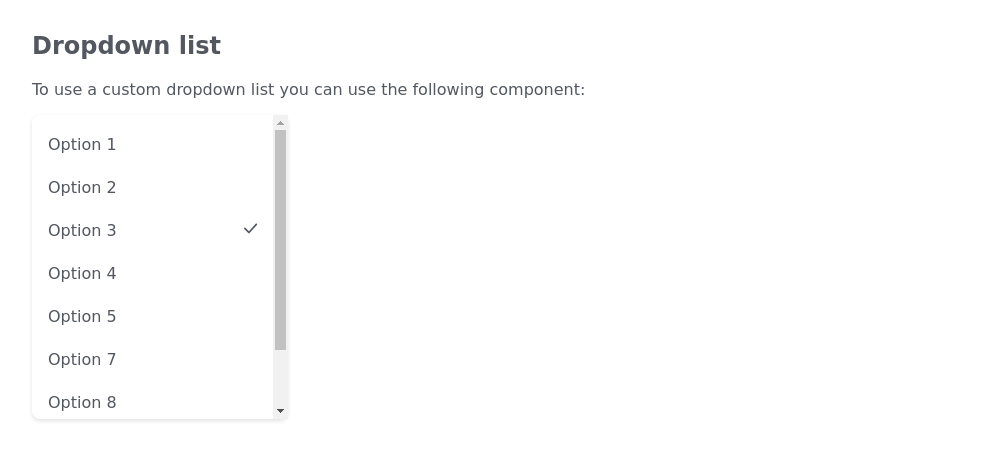
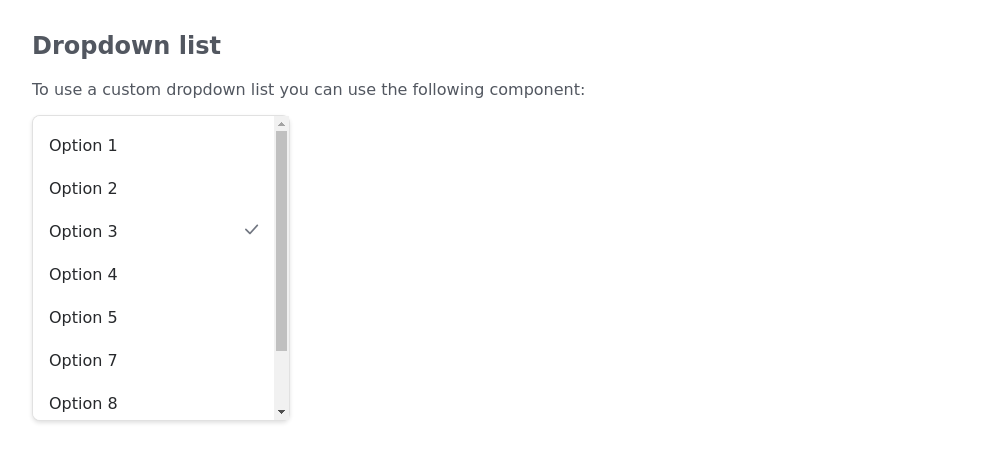
feat(dropdown-menu): align to SDS and fix dropdown styles and generat… (#402)
* feat(dropdown-menu): align to SDS and fix dropdown styles and generate alert-triangle with css only

* feat(error): Use the icon from .tk-validation__errors

* feat(dropdown-menu): align expandable icon to SDS

diff --git a/packages/styles/stories/fields.stories.js b/packages/styles/stories/fields.stories.js
@@ -23,7 +23,7 @@ export const TextField = () => {
       placeholder="Type something..."
     />
     <ul class="tk-validation__errors">
-      <li><i class="tk-icon-alert-triangle"></i>This field is required.</li>
+      <li>This field is required.</li>
     </ul>
   </span>
   <div class="tk-mt-2"></div>
@@ -34,7 +34,7 @@ export const TextField = () => {
         placeholder="Type something..."
       />
       <ul class="tk-validation__errors">
-        <li><i class="tk-icon-alert-triangle"></i>This field is required.</li>
+        <li>This field is required.</li>
       </ul>
 
     </span>
@@ -116,7 +116,7 @@ export const TextField = () => {
       </div>
     </div>
     <ul class="tk-validation__errors">
-    <li><i class="tk-icon-alert-triangle"></i>This field is required.</li>
+    <li>This field is required.</li>
   </ul>
 
   </span>
@@ -134,7 +134,7 @@ export const TextField = () => {
       </div>
     </div>
     <ul class="tk-validation__errors">
-    <li><i class="tk-icon-alert-triangle"></i>This field is required.</li>
+    <li>This field is required.</li>
   </ul>
 
   </span>
@@ -282,7 +282,7 @@ export const TextField = () => {
       </div>
       </div>
       <ul class="tk-validation__errors">
-        <li><i class="tk-icon-alert-triangle"></i>This field is required.</li>
+        <li>This field is required.</li>
       </ul>
   </span>
   <div class="tk-mt-2"></div>
@@ -301,7 +301,7 @@ export const TextField = () => {
       </div>
       </div>
       <ul class="tk-validation__errors">
-        <li><i class="tk-icon-alert-triangle"></i>This field is required.</li>
+        <li>This field is required.</li>
       </ul>
   </span>
   <h3>Read Only</h3>
@@ -427,7 +427,7 @@ export const TextField = () => {
       </div>
       </div>
       <ul class="tk-validation__errors">
-        <li><i class="tk-icon-alert-triangle"></i>This field is required.</li>
+        <li>This field is required.</li>
       </ul>
   </span>
   <div class="tk-mt-2"></div>
@@ -451,7 +451,7 @@ export const TextField = () => {
       </div>
       </div>
       <ul class="tk-validation__errors">
-        <li><i class="tk-icon-alert-triangle"></i>This field is required.</li>
+        <li>This field is required.</li>
       </ul>
   </span>
 
@@ -558,7 +558,7 @@ export const TextField = () => {
         placeholder="Type something..."
       />
       <ul class="tk-validation__errors">
-        <li><i class="tk-icon-alert-triangle"></i>This field is required.</li>
+        <li>This field is required.</li>
       </ul>
     </span>
     <div class="tk-mt-2"></div>
@@ -661,9 +661,7 @@ export const Select = () => {
       <i></i>
     </div>
     <ul class="tk-validation__errors">
-      <li>
-        <i class="tk-icon-alert-triangle"></i>This field is required.
-      </li>
+      <li>This field is required.</li>
     </ul>
   </span>
 
@@ -682,9 +680,7 @@ export const Select = () => {
       </div>
     </div>
     <ul class="tk-validation__errors">
-      <li>
-        <i class="tk-icon-alert-triangle"></i>This field is required.
-      </li>
+      <li>This field is required.</li>
     </ul>
   </span>
 
@@ -750,9 +746,7 @@ export const Select = () => {
       <i></i>
     </div>
     <ul class="tk-validation__errors">
-      <li>
-        <i class="tk-icon-alert-triangle"></i>This field is required.
-      </li>
+      <li>This field is required.</li>
     </ul>
   </span>
 
@@ -771,9 +765,7 @@ export const Select = () => {
       </div>
     </div>
     <ul class="tk-validation__errors">
-      <li>
-        <i class="tk-icon-alert-triangle"></i>This field is required.
-      </li>
+      <li>This field is required.</li>
     </ul>
   </span>
 
@@ -839,9 +831,7 @@ export const Select = () => {
       <i></i>
     </div>
     <ul class="tk-validation__errors">
-      <li>
-        <i class="tk-icon-alert-triangle"></i>This field is required.
-      </li>
+      <li>This field is required.</li>
     </ul>
   </span>
 
@@ -860,9 +850,7 @@ export const Select = () => {
       </div>
     </div>
     <ul class="tk-validation__errors">
-      <li>
-        <i class="tk-icon-alert-triangle"></i>This field is required.
-      </li>
+      <li>This field is required.</li>
     </ul>
   </span>
 `;
@@ -927,9 +915,7 @@ export const TextArea = () => {
       </div>
       </div>
       <ul class="tk-validation__errors">
-        <li>
-          <i class="tk-icon-alert-triangle"></i>This field is required.
-        </li>
+        <li>This field is required.</li>
       </ul>
   </span>
   <div class="tk-mt-2"></div>
@@ -943,9 +929,7 @@ export const TextArea = () => {
       </div>
       </div>
       <ul class="tk-validation__errors">
-        <li>
-          <i class="tk-icon-alert-triangle"></i>This field is required.
-        </li>
+        <li>This field is required.</li>
       </ul>
   </span>
   

diff --git a/packages/styles/src/utils/mixins/_inputs.scss b/packages/styles/src/utils/mixins/_inputs.scss
@@ -61,19 +61,11 @@
     label {
       @include styleLabel;
     }
+    .tk-icon-info-round {
+      @include addFocusStyle;
+    }
     .tk-tooltip__wrapper {
       line-height: toRem(16);
-      color: getColor($--tk-hint-color, default);
-      :hover {
-        color: getColor($electricity, '40');
-      }
-      :active {
-        color: getColor($electricity, '50');
-      }
-
-      .tk-input-group__hint {
-        @include addFocusStyle;
-      }
     }
   }
 }
@@ -159,9 +151,24 @@
   }
 }
 
+@mixin styleSelectedIcon {
+  &::before {
+    position: absolute;
+    right: toRem(16);
+    font-style: normal;
+    font-family: 'tk-icons';
+    color: getColor(
+      $--tk-select-color,
+      defaultMenuIcon
+    );
+    font-size: toRem(14);
+    @include tk-icon-check;
+  }
+}
+
 @mixin boxContainer() {
   box-shadow: 0 toRem(24) toRem(48) rgba($scolor-box-shadow, 0.12),
     0 toRem(4) toRem(8) rgba($scolor-box-shadow, 0.24);
   border-radius: toRem(8);
-  background-color: $--tk-input-default-background-color;
+  background-color: getColor($--tk-select-color, defaultMenuBg);
 }

diff --git a/packages/styles/src/components/atoms/_dropdown-menu.scss b/packages/styles/src/components/atoms/_dropdown-menu.scss
@@ -1,17 +1,21 @@
-$list-font-size-icon: toRem(14);
+$list-font-size-icon: toRem(16);
 
 .tk-dropdown-menu {
   @include listStyle;
+
   z-index: $z-index-dropdown-menu;
   padding: toRem(8) 0;
   i {
-    color: $--tk-list-selected-color;
+    color: getColor($--tk-select-color, defaultMenuIcon);
     font-size: $list-font-size-icon;
     padding-right: toRem(8);
   }
 
   &__item {
-    padding: toRem(8) toRem(0) toRem(8) toRem(16);
+    font-size: toRem(14);
+    height: toRem(20);
+    line-height: toRem(20);
+    padding: toRem(6) toRem(0) toRem(6) toRem(16);
   }
 
   &--expandable::before {
@@ -20,14 +24,14 @@ $list-font-size-icon: toRem(14);
     font-style: normal;
     font-family: 'tk-icons';
     font-size: $list-font-size-icon;
-    color: $scolor-electricity;
+    color: getColor($--tk-select-color, defaultMenuIcon);
     @include tk-icon-right;
   }
 }
 
 .tk-dropdown-menu-divider {
   height: 0;
-  margin: toRem(5.6) 0;
+  margin: toRem(2) 0;
   overflow: hidden;
-  border-top: toRem(1) solid $--tk-list-divider-color;
+  border-top: toRem(1) solid $--tk-divider-color;
 }

diff --git a/packages/styles/src/utils/mixins/_list.scss b/packages/styles/src/utils/mixins/_list.scss
@@ -2,25 +2,28 @@ $list-box-shadow: rgba($scolor-graphite-plus-89, 0.122);
 
 @mixin listStyle {
   text-align: left;
+  border: toRem(1) solid $list-box-shadow;
   border-radius: toRem(8);
   box-shadow: 0 toRem(2) toRem(4) $list-box-shadow;
-  &--selected::before {
-    position: absolute;
-    right: toRem(16);
-    font-style: normal;
-    font-family: 'tk-icons';
-    font-size: toRem(14);
-    @include tk-icon-check;
+  background-color: getColor($--tk-select-color, defaultMenuBg);
+
+  &--selected {
+    @include styleSelectedIcon;
   }
 
   &__item {
     position: relative;
-    color: $--tk-main-text-color;
+    color: getColor($--tk-select-color, defaultMenuText);
     display: block;
     cursor: pointer;
     padding-left: toRem(16);
+
     &:hover {
-      background-color: $--tk-list-hover-color;
+      color: getColor($--tk-select-color, hoverMenuText);
+      background-color: getColor($--tk-select-color, hoverMenuBg);
+      i, i::before {
+        color: getColor($--tk-select-color, hoverMenuIcon);
+      }
     }
   }
 }

diff --git a/packages/styles/src/variables/themes/accessors/colors/_index.scss b/packages/styles/src/variables/themes/accessors/colors/_index.scss
@@ -47,8 +47,10 @@ $--tk-hint-color: (
 );
 
 $--tk-select-color: (
+  defaultMenuBg: var(--tk-select-color-default-menu-bg, $scolor-white),
   activeMenuBg: var(--tk-select-color-active-menu-bg, getColor($graphite, '70')),
   hoverMenuBg: var(--tk-select-color-hover-menu-bg, getColor($graphite, '60')),
+  defaultMenuText: var(--tk-select-color-default-menu-text, getColor($graphite, '80')),
   hoverMenuText: var(--tk-select-color-hover-menu-text, $scolor-white),
   defaultMenuIcon: var(--tk-select-color-default-menu-icon, getColor($graphite, '50')),
   hoverMenuIcon: var(--tk-select-color-hover-menu-icon, getColor($graphite, '20')), // equivalent of tk-input-disabled

diff --git a/packages/styles/src/uitoolkit-components/_select.scss b/packages/styles/src/uitoolkit-components/_select.scss
@@ -236,8 +236,8 @@ body {
         &__option {
           cursor: pointer;
           color: getColor(
-            $--tk-input-color,
-            filledText
+            $--tk-select-color,
+            defaultMenuText
           );
           padding: toRem(6) toRem(38) toRem(6) toRem(16);
           line-height: toRem(20);
@@ -260,7 +260,7 @@ body {
             color: getColor($--tk-input-color, disabledText);
           }
           &--is-selected {
-            @extend .tk-select--custom-dropdown--selected;
+            @include styleSelectedIcon;
           }
           &:active {
             color: getColor($--tk-select-color, hoverMenuText);

diff --git a/packages/styles/src/variables/themes/_dark.scss b/packages/styles/src/variables/themes/_dark.scss
@@ -84,8 +84,10 @@
   
   --tk-label-color: #{getColor($electricity, '20')};
 
+  --tk-select-color-default-menu-bg: #{getColor($graphite, '80')};
   --tk-select-color-active-menu-bg: #{getColor($graphite, '30')};
   --tk-select-color-hover-menu-bg: #{getColor($graphite, '20')};
+  --tk-select-color-default-menu-text: #{getColor($graphite, '05')};
   --tk-select-color-hover-menu-text: #{getColor($graphite, '80')};
   --tk-select-color-default-menu-icon: #{getColor($graphite, '40')};
   --tk-select-color-hover-menu-icon: #{getColor($graphite, '60')};

diff --git a/packages/styles/src/components/atoms/_validation.scss b/packages/styles/src/components/atoms/_validation.scss
@@ -34,8 +34,15 @@ body {
     padding: 0;
     margin: var(--tk-validation__errors-margin);
     color: getColor($--tk-input-color, errorActive);
-    i {
-      margin-right: var(--tk-validation__errors-icon-margin-right);
+
+    li {
+      display: flex;
+      &:before {
+        font-family: 'tk-icons';
+        font-size: toRem(12);
+        @include tk-icon-alert-triangle;
+        margin-right: var(--tk-validation__errors-icon-margin-right);
+      }
     }
   }
 }

diff --git a/packages/components/stories/DropdownMenu.stories.tsx b/packages/components/stories/DropdownMenu.stories.tsx
@@ -74,7 +74,7 @@ export const Closable: React.FC = () => {
             <DropdownMenuItem className="withRightIcon">
               <Icon iconName="copy" className="leftIcon" />
               Copy
-              <Icon iconName="check" className="rightIcon" />
+              <i className="tk-dropdown-menu--selected" />
             </DropdownMenuItem>
             <DropdownMenuItem>
               <Icon iconName="forward" className="leftIcon" />

diff --git a/packages/components/src/components/validation/Validation.tsx b/packages/components/src/components/validation/Validation.tsx
@@ -230,7 +230,7 @@ class Validation extends React.Component<
         {hasErrors ? (
           <ul className="tk-validation__errors">
             {this.state.errors.map((error, index) => (
-              <li key={index} aria-errormessage={error}><Icon iconName="alert-triangle"/>{error}</li>
+              <li key={index} aria-errormessage={error}>{error}</li>
             ))}
           </ul>
         ) : null}
